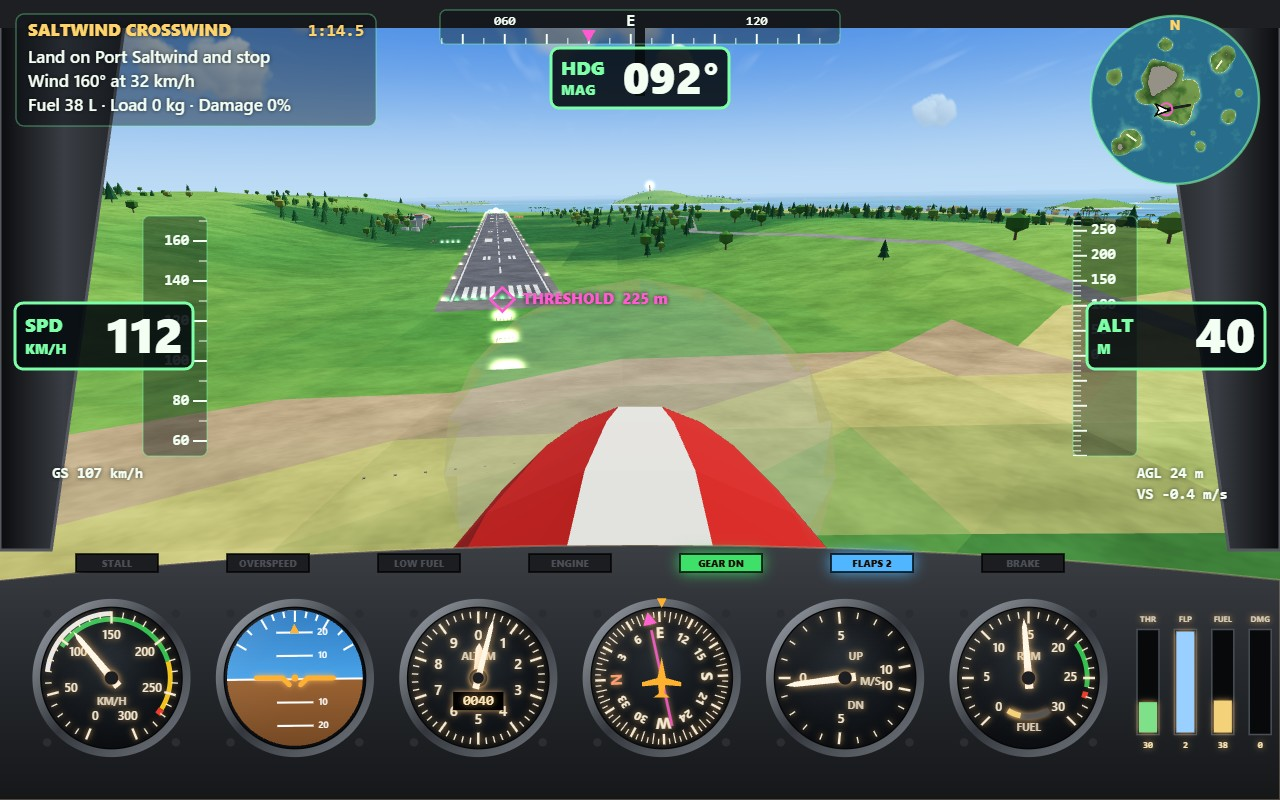
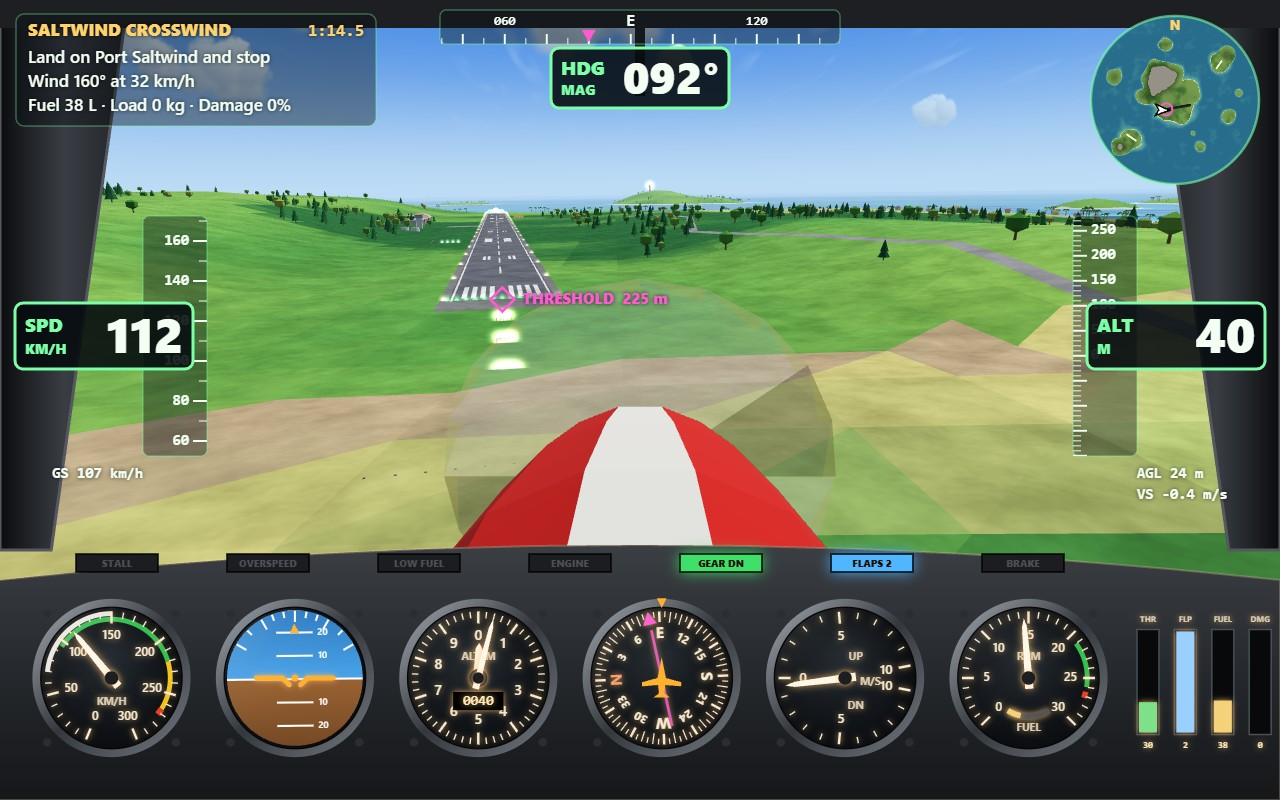
Prop disc shows two faint blade bands

Changed region(s): [[0.5625, 0.4688, 0.6562, 0.5938], [0.3438, 0.5938, 0.4062, 0.6562]]

diff --git a/game/src/aircraft-mesh.js b/game/src/aircraft-mesh.js
@@ -100,7 +100,7 @@ function buildBlades(mb) {
 function buildDisc(mb) {
 	const { y, z } = HINGES.prop, p = (i, r) => [Math.cos(i * 0.314) * r, y + Math.sin(i * 0.314) * r, z];
 	for (let i = 0; i < 20; i++) {
-		mb.tri([0, y, z], p(i, 1.04), p(i + 1, 1.04), [0.85, 0.85, 0.85, 0.5]);
+		mb.tri([0, y, z], p(i, 1.04), p(i + 1, 1.04), i % 10 < 2 ? [0.2, 0.2, 0.22, 0] : [0.85, 0.85, 0.85, 0.5]);
 		mb.tri(p(i, 1.04), p(i, 0.97), p(i + 1, 1.04), [1, 0.85, 0.3, 0.4]);
 	}
 }
